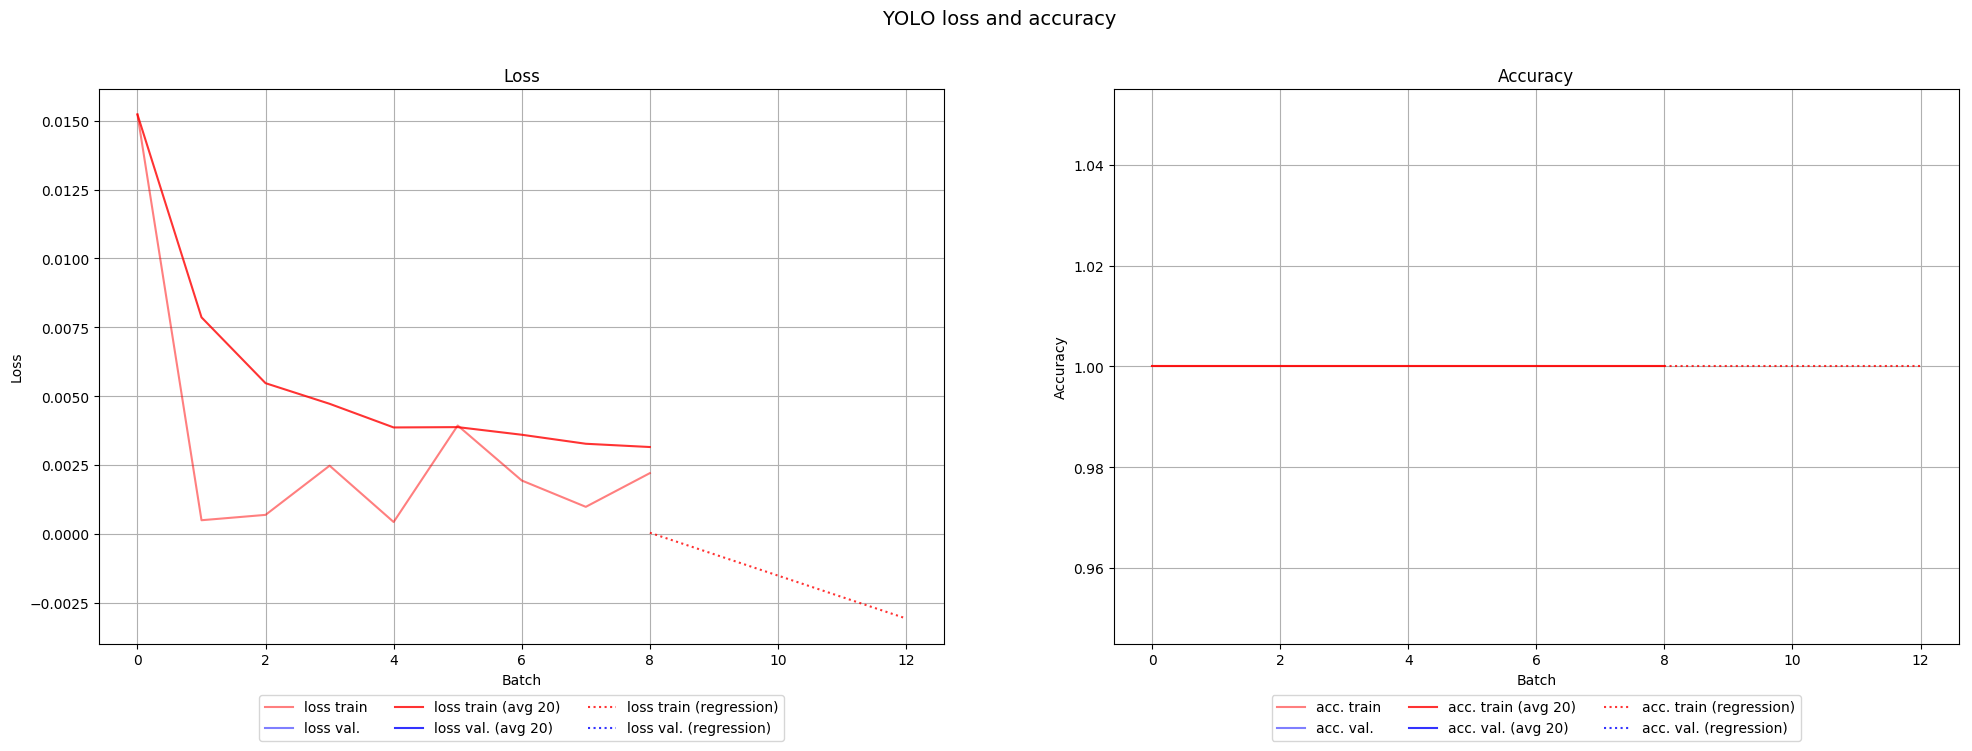
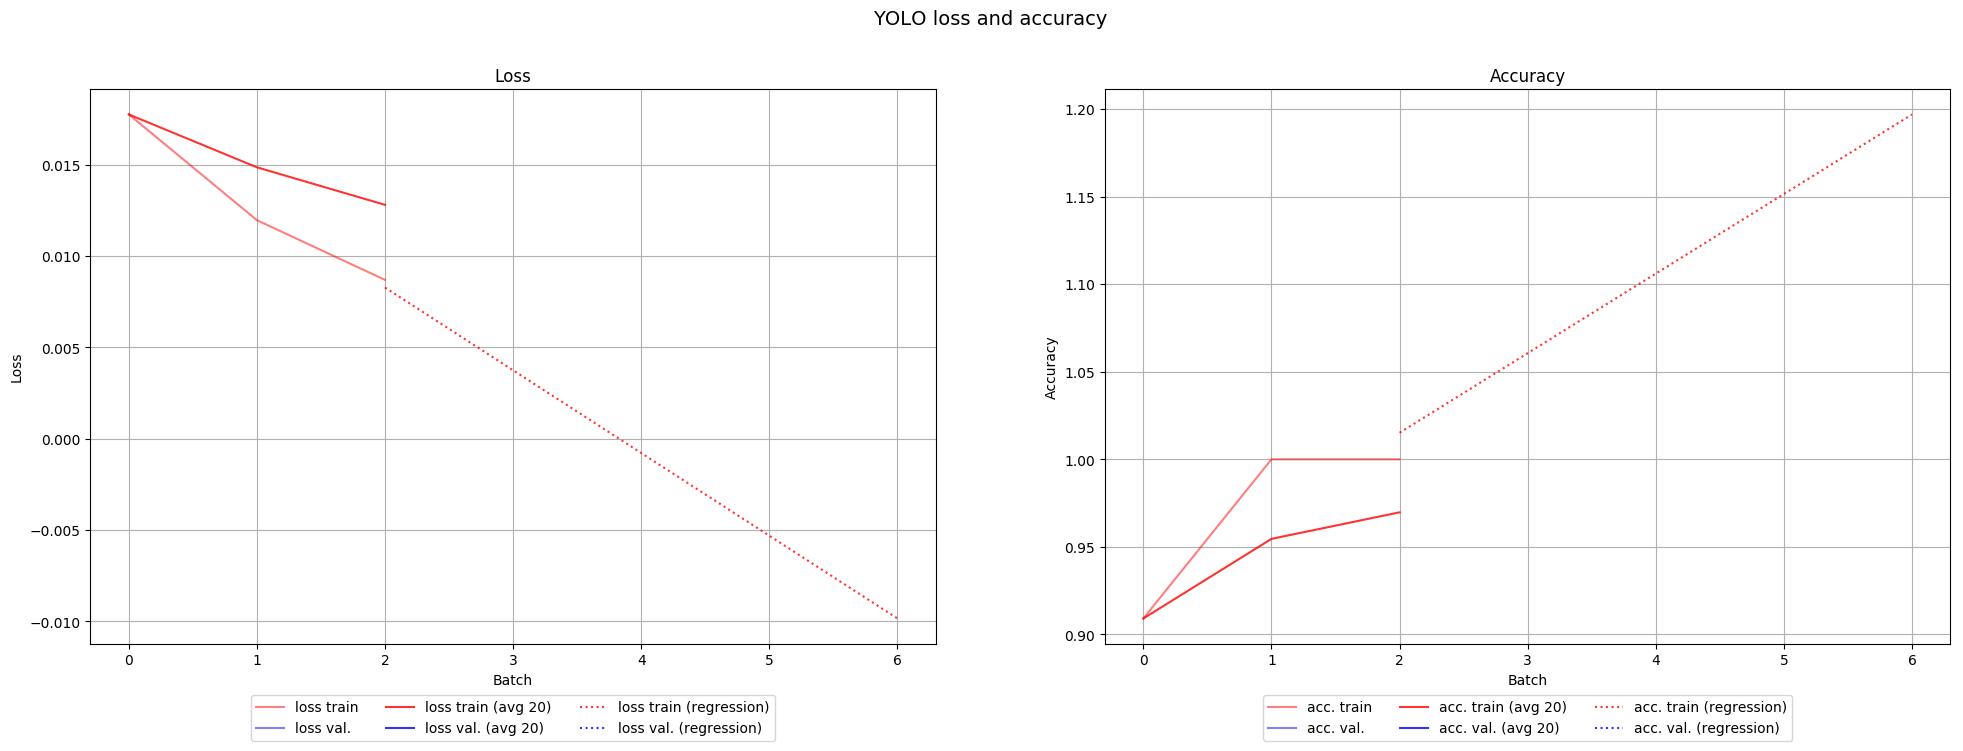
betty_predict works

diff --git a/darknet19_train.py b/darknet19_train.py
@@ -45,7 +45,7 @@ with open(label_file, "r") as f:
 # load model
 print("loading model...")
 model = Darknet19Predictor(Darknet19())
-backup_file = "%s/501.model" % (backup_path)
+backup_file = "%s/201.model" % (backup_path)
 if os.path.isfile(backup_file):
     serializers.load_hdf5(backup_file, model) # load saved model
 model.predictor.train = True
@@ -145,22 +145,27 @@ for batch in range(max_batches):
 
 
     # save model
-    if (batch) % 2 == 0:
+    if (batch) % 100 == 0:
         model_file = "%s/%s.model" % (backup_path, batch+1)
         print("saving model to %s" % (model_file))
         serializers.save_hdf5(model_file, model)
         serializers.save_hdf5(backup_file, model)
 
+        #try to load from here
+        weight_file_test = "./backup/fourcans.model"
+        model_test = Darknet19Predictor(Darknet19())
+        serializers.load_hdf5(weight_file_test, model_test) # load saved model
+        model_test.predictor.train = False
+
         # read image and process on it
-        print("final results", result_compare)
-        img1 = cv2.imread("./items/sprite.png")
-        img2 = cv2.imread("./items/coca-zero.png")
+        img1 = cv2.imread("./items/schweps.png")
+        img2 = cv2.imread("./items/pet_water.png")
 
         img1 = cv2.resize(img1, (input_height, input_width))
         img2 = cv2.resize(img2, (input_height, input_width))
 
         cv2.imshow('test feed', img2)
-        cv2.waitKey(500)
+        cv2.waitKey(50)
         #print('shape', img2.shape[:2])
 
         img1 = img1[:,:,:3]
@@ -170,7 +175,7 @@ for batch in range(max_batches):
         img2 = np.asarray(img2, dtype=np.float32) / 255.0
         img2 = img2.transpose(2, 0, 1)
         # load model
-        model.predictor.train = False
+        model_test.predictor.train = False
 
         # forward
         x = []
@@ -181,30 +186,43 @@ for batch in range(max_batches):
         x = Variable(x)
 
         if hasattr(cuda, "cupy"):
+            print('hasatt inside')
             cuda.get_device(0).use()
-            model.to_gpu()
+            model_test.to_gpu()
             x.to_gpu()
 
         one_hot_t = []
-        first = [1,0,0,0]
-        secund = [0,1,0,0]
+        first = [0,0,0,1]
+        secund = [0,0,1,0]
         one_hot_t.append(np.array(first))
         one_hot_t.append(np.array(secund))
         one_hot_t = np.array(one_hot_t, dtype=np.float32)
         one_hot_t = Variable(one_hot_t)
         one_hot_t.to_gpu(0)
 
-        y, loss, accuracy = model(x, one_hot_t)
-        #if hasattr(cuda, "cupy"):
-           # y = y.get()
-        print("final prediction", y, "accuracy", accuracy)
-        #predicted_order = np.argsort(-y.flatten())
-        #for index in predicted_order:
-            #cls = labels[index]
-            #prob = y.flatten()[index] * 100
-            #print("%16s : %.2f%%" % (cls, prob))
-        model.zerograds()
-        model.cleargrads()
+        #y, loss, accuracy = model(x, one_hot_t)
+        result = model_test.predict(x).data
+        result1= (result[0,:])
+        result2= (result[1,:])
+
+        if hasattr(cuda, "cupy"):
+            result1 = result1.get()
+            result2= result2.get()
+
+
+        #print("final prediction", y, "accuracy", accuracy)
+        predicted_order = np.argsort(-result1.flatten())
+        predicted_order2 = np.argsort(-result2.flatten())
+
+        for index in predicted_order:
+            cls = labels[index]
+            prob = result1.flatten()[index] * 100
+            print("%16s : %.2f%%" % (cls, prob))
+        for index in predicted_order2:
+            cls = labels[index]
+            prob = result2.flatten()[index] * 100
+            print("%16s : %.2f%%" % (cls, prob))
+        model_test.zerograds()
 
 print("saving model to %s/darknet19_final.model" % (backup_path))
 serializers.save_hdf5("%s/darknet19_final.model" % (backup_path), model)

diff --git a/betty_predict.py b/betty_predict.py
@@ -1,0 +1,90 @@
+import time
+import cv2
+import numpy as np
+import glob
+from chainer import serializers, Variable
+import chainer.functions as F
+import argparse
+from darknet19 import *
+
+#try to load from here
+item_path = "./items"
+item_files = glob.glob(item_path + "/*")
+labels = []
+
+input_height, input_width = (224, 224)
+for i,item in enumerate(item_files):
+    labels.append(item.split("/")[-1].split(".")[0])
+
+
+weight_file_test = "./backup/fourcans.model"
+model_test = Darknet19Predictor(Darknet19())
+serializers.load_hdf5(weight_file_test, model_test) # load saved model
+model_test.predictor.train = False
+
+# read image and process on it
+img1 = cv2.imread("./items/schweps.png")
+img2 = cv2.imread("./items/pet_water.png")
+
+img1 = cv2.resize(img1, (input_height, input_width))
+img2 = cv2.resize(img2, (input_height, input_width))
+
+cv2.imshow('test feed', img2)
+cv2.waitKey(50)
+#print('shape', img2.shape[:2])
+
+img1 = img1[:,:,:3]
+img1 = np.asarray(img1, dtype=np.float32) / 255.0
+img1 = img1.transpose(2, 0, 1)
+img2 = img2[:,:,:3]
+img2 = np.asarray(img2, dtype=np.float32) / 255.0
+img2 = img2.transpose(2, 0, 1)
+# load model
+model_test.predictor.train = False
+
+# forward
+x = []
+
+x.append(np.array(img1))
+x.append(np.array((img2)))
+x = np.asarray(x, dtype=np.float32)
+x = Variable(x)
+
+if hasattr(cuda, "cupy"):
+    print('hasatt inside')
+    cuda.get_device(0).use()
+    model_test.to_gpu()
+    x.to_gpu()
+
+one_hot_t = []
+first = [0,0,0,1]
+secund = [0,0,1,0]
+one_hot_t.append(np.array(first))
+one_hot_t.append(np.array(secund))
+one_hot_t = np.array(one_hot_t, dtype=np.float32)
+one_hot_t = Variable(one_hot_t)
+one_hot_t.to_gpu(0)
+
+#y, loss, accuracy = model(x, one_hot_t)
+result = model_test.predict(x).data
+result1= (result[0,:])
+result2= (result[1,:])
+
+if hasattr(cuda, "cupy"):
+    result1 = result1.get()
+    result2= result2.get()
+
+
+#print("final prediction", y, "accuracy", accuracy)
+predicted_order = np.argsort(-result1.flatten())
+predicted_order2 = np.argsort(-result2.flatten())
+
+for index in predicted_order:
+    cls = labels[index]
+    prob = result1.flatten()[index] * 100
+    print("%16s : %.2f%%" % (cls, prob))
+for index in predicted_order2:
+    cls = labels[index]
+    prob = result2.flatten()[index] * 100
+    print("%16s : %.2f%%" % (cls, prob))
+model_test.zerograds()

diff --git a/darknet19_predict.py b/darknet19_predict.py
@@ -13,21 +13,24 @@ args = parser.parse_args()
 
 # hyper parameters
 input_height, input_width = (224, 224)
-weight_file = "./backup/9.model"
+weight_file = "./backup/fourcans.model"
 label_file = "./data/label.txt"
 image_file = args.path
 
 # read labels
 with open(label_file, "r") as f:
     labels = f.read().strip().split("\n")
-
+x=[]
 # read image and process on it
 #print("loading image...")
 img = cv2.imread(image_file)
 img = cv2.resize(img, (input_height, input_width))
+img = img[:,:,:3]
 img = np.asarray(img, dtype=np.float32) / 255.0
 img = img.transpose(2, 0, 1)
-
+x.append(np.array(img))
+x = np.asarray(x, dtype=np.float32)
+x = Variable(x)
 # load model
 print("loading model...")
 model = Darknet19Predictor(Darknet19())
@@ -35,8 +38,7 @@ serializers.load_hdf5(weight_file, model) # load saved model
 model.predictor.train = False
 
 # forward
-x_data = img[np.newaxis, :, :, :]
-x = Variable(x_data)
+#x_data = img[np.newaxis, :, :, :]
 if hasattr(cuda, "cupy"):
     cuda.get_device(0).use()
     model.to_gpu()
@@ -45,7 +47,6 @@ if hasattr(cuda, "cupy"):
 y = model.predict(x).data
 if hasattr(cuda, "cupy"):
     y = y.get()
-
 predicted_order = np.argsort(-y.flatten())
 for index in predicted_order:
     cls = labels[index]
